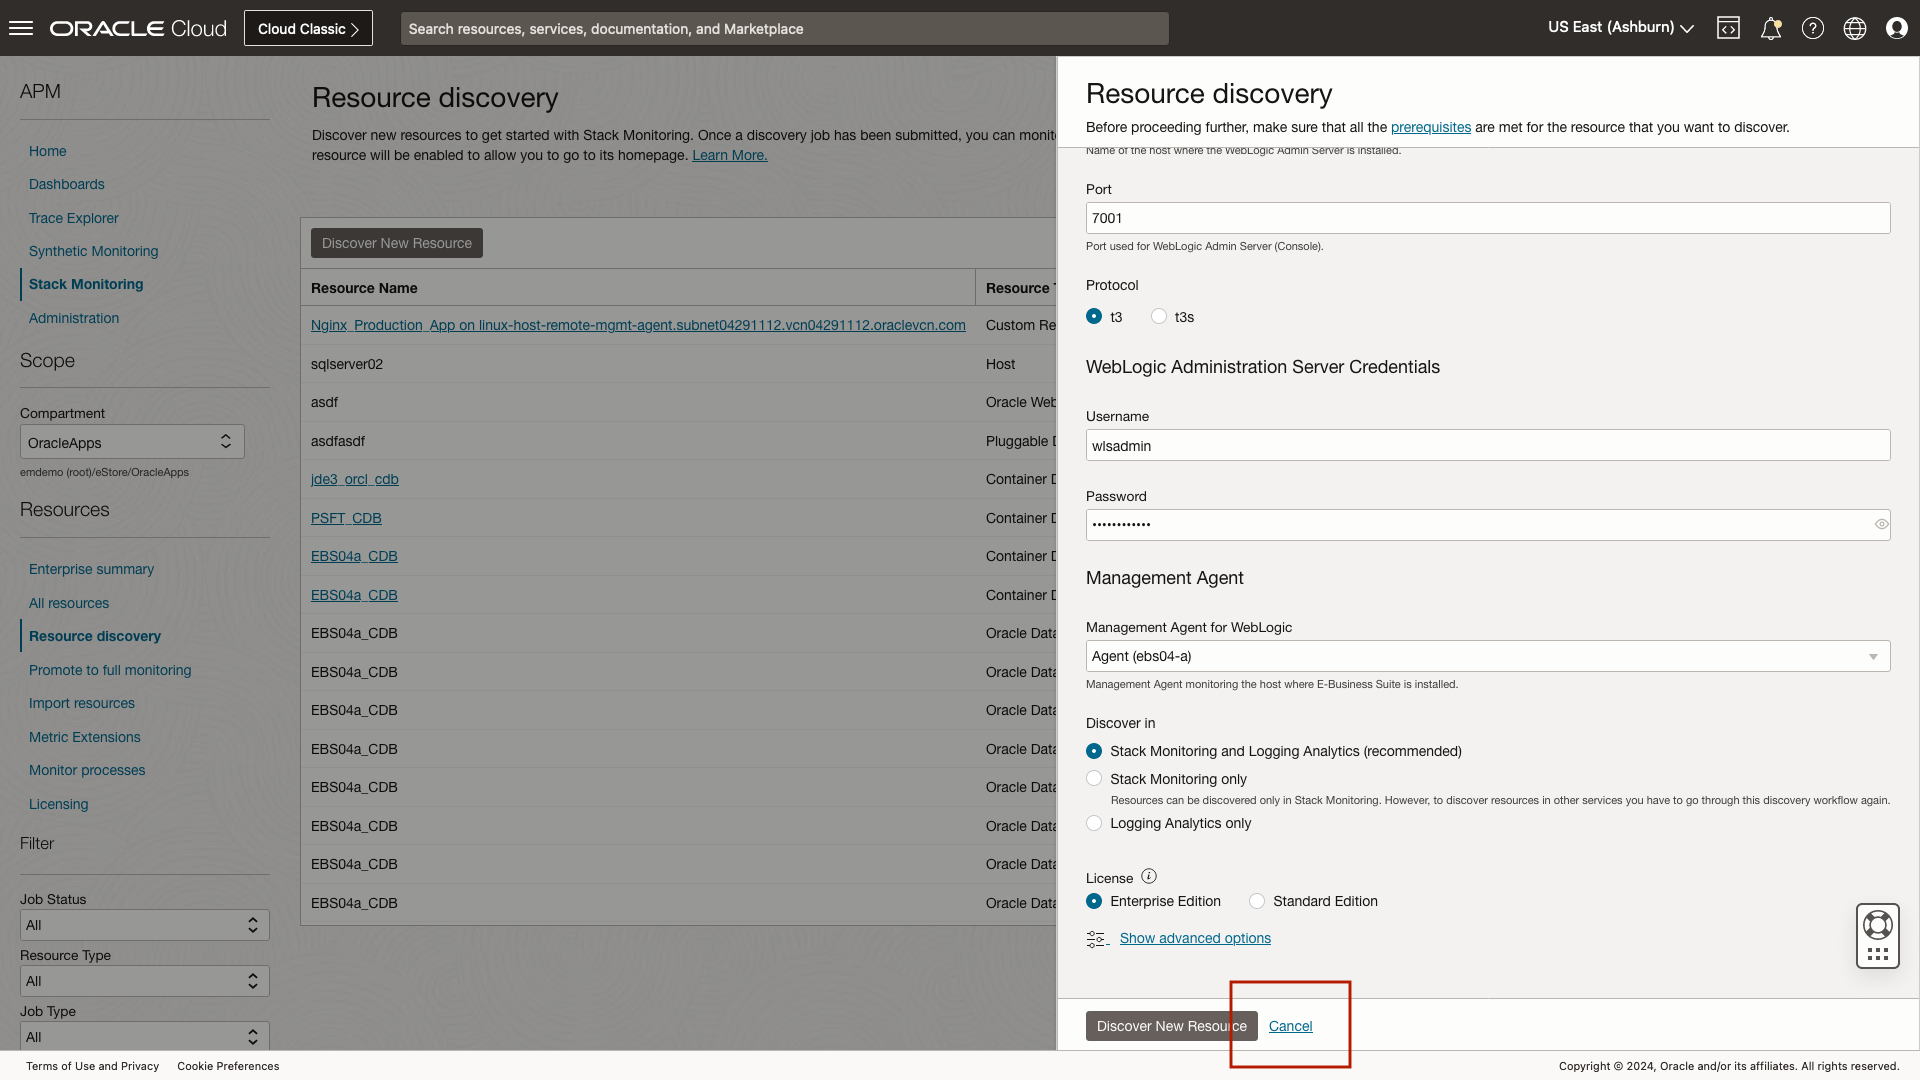
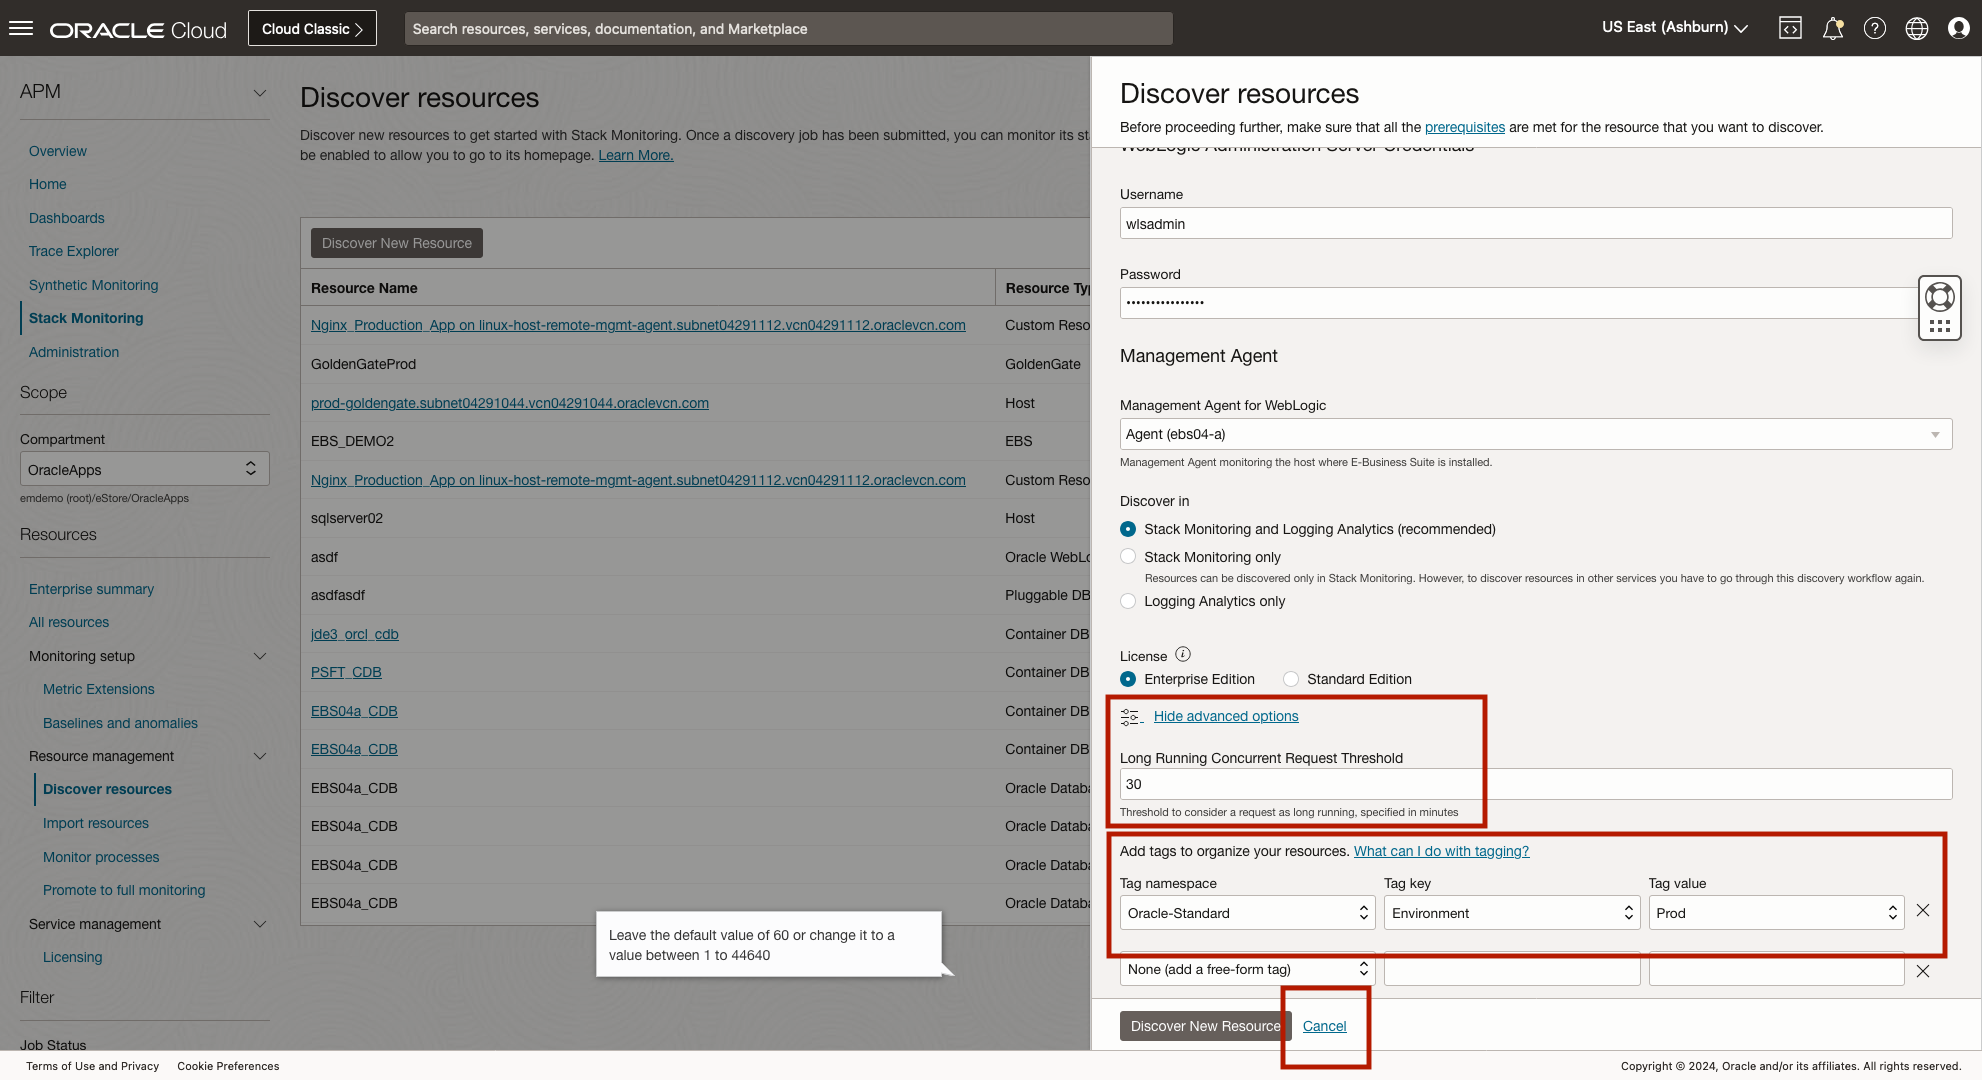
Added EBS Long Running Connection Workflow.

diff --git a/oci-stack-monitoring-fundamentals/discovery/discovery.md b/oci-stack-monitoring-fundamentals/discovery/discovery.md
@@ -141,9 +141,12 @@ Stack Monitoring provides a script to create a user with a reduced set of for mo
 	* Ensure the radio button is selected to discovery in both Stack Monitoring and Logging Analytics. 
 	* To gain access to advanced monitoring features, we will select Enterprise Edition.
 
+	Each EBS environment is unique in their requirements to monitor long running concurrent requests. To acoomodate this, Stack Monitoring allows for the threshold of a long running concurrent request to be configurable. Let's reduce the threshold from the default of **60 minutes** to **30 minutes**. Select **Show advanced options**, then update the threshold to **30**.
+
 	Once all fields are complete, we would typically click Discover. However, we will again select **Cancel**.
 
 	![EBS discovery slide-out, with lower fields completed, highlighting the cancel link](images/4-4-discovery.png " ")
+
 
 To review a list of resources Stack Monitoring supports, see **[Oracle Stack Monitoring Primary Note (Doc ID 2925632.1)](https://mosemp.us.oracle.com/epmos/faces/DocumentDisplay?_afrLoop=399959770386069&id=2925632.1&_afrWindowMode=0&_adf.ctrl-state=5jd9c5nir_4)**
 
